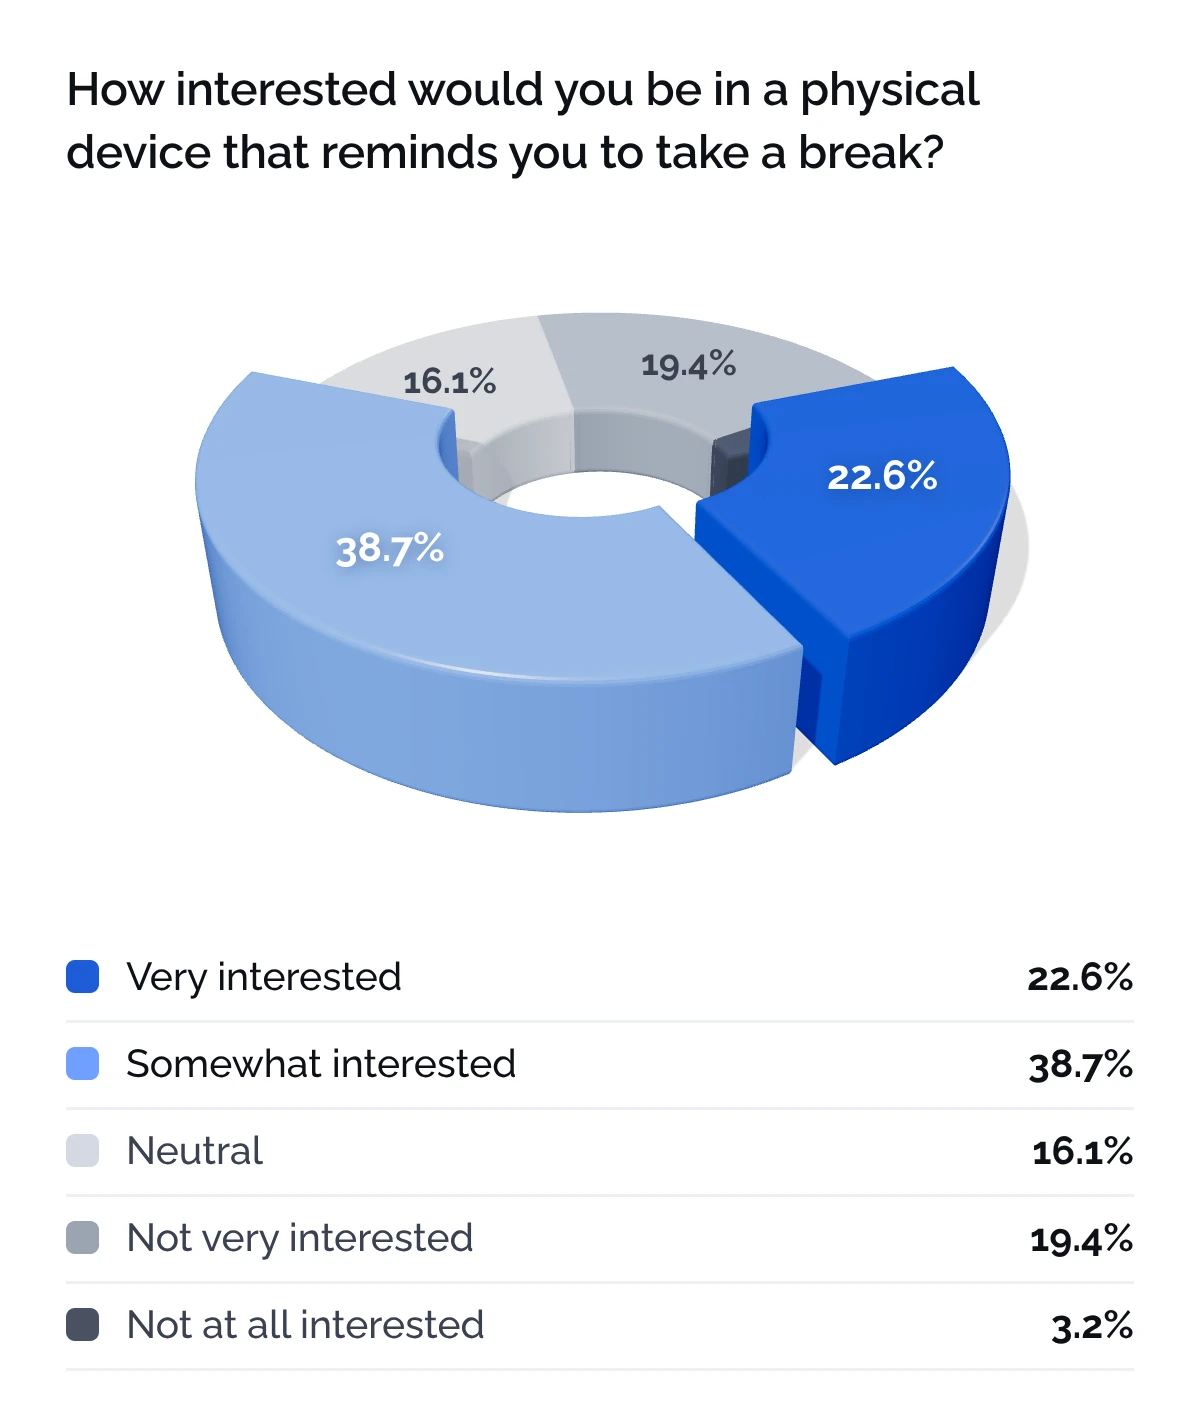
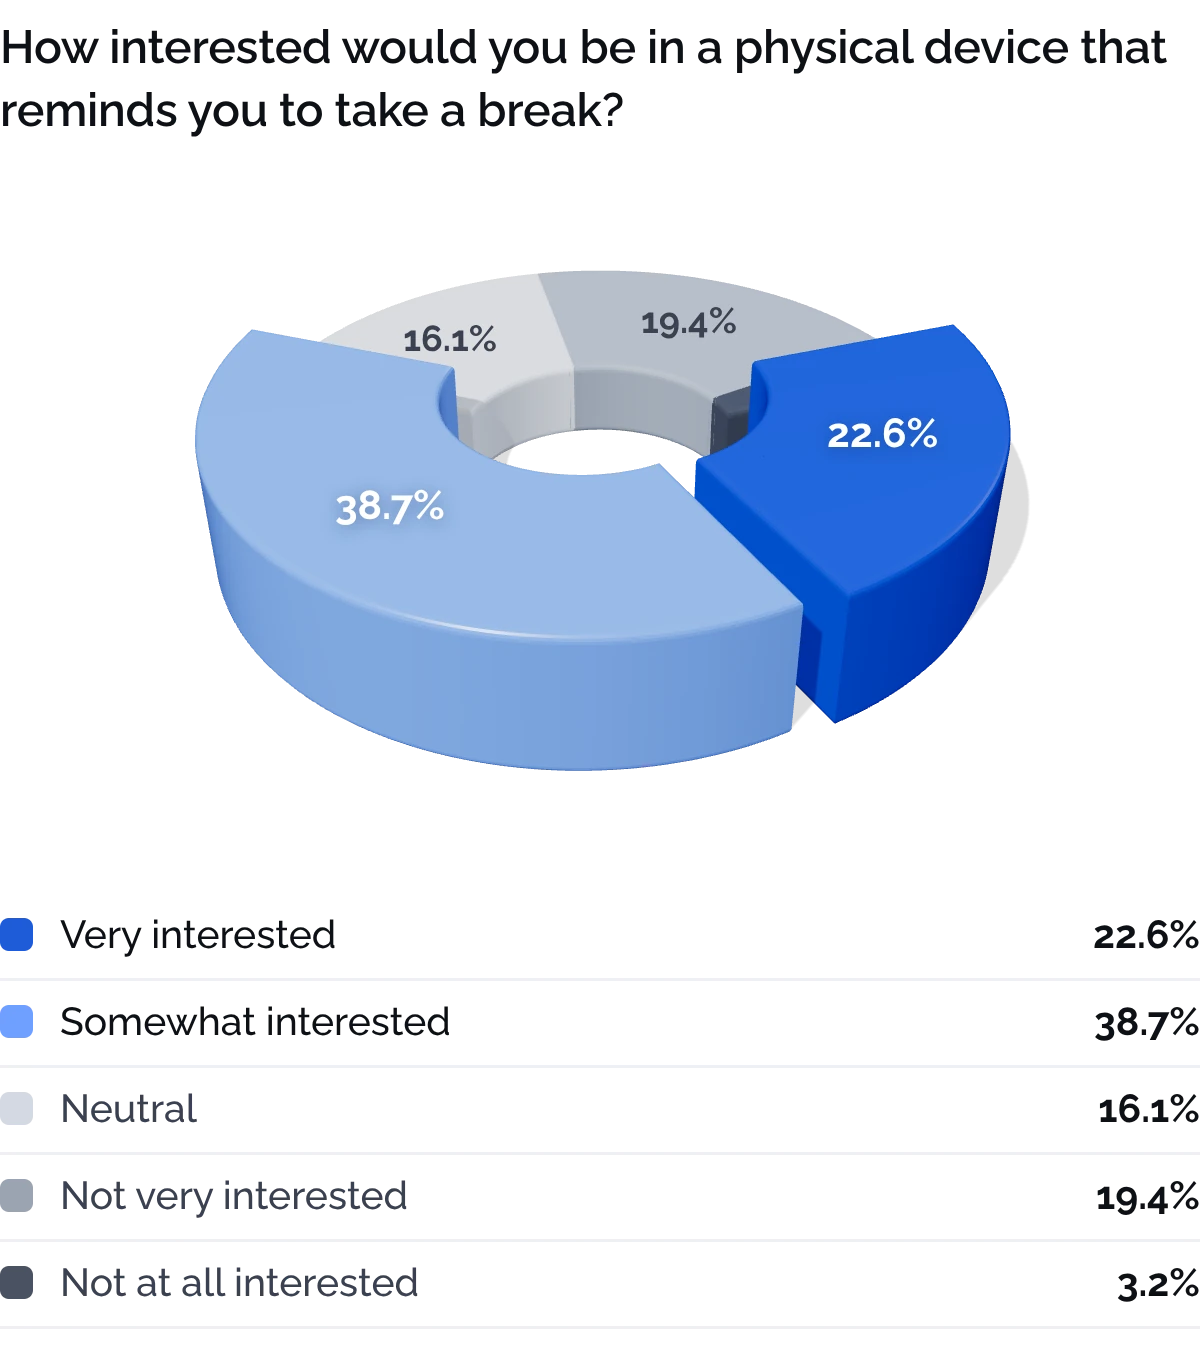
Soulshine survey: frameless transparent 3D charts, smaller stats, no top rules
Claude-Session: https://claude.ai/code/session_017Bf2Ji9pqjddmca5aaYHp1

diff --git a/index.html b/index.html
@@ -981,6 +981,8 @@ html.home-on.at-top .top::after{opacity:0}
 .stat-chart{margin-top:12px;background:#FFFFFF}
 .stat-chart img{object-fit:contain}
 .ss-lead{margin-top:clamp(40px,6vw,88px)}
+.ss-lead .stat{border-top:0;padding-top:0;gap:4px}.ss-lead .stat strong{font-size:clamp(26px,2.6vw,34px)}.ss-lead .stat span{font-size:13.5px}
+.ss-lead .stat-chart{margin-top:12px;border:0;background:transparent}
 .biglink.with-thumb{grid-column:1/-1;justify-content:flex-start;gap:clamp(16px,2.4vw,28px);padding:16px 24px 16px 16px}
 .biglink.with-thumb .arrow{margin-left:auto}
 .poster-thumb.wide{aspect-ratio:16/9}
@@ -1428,9 +1430,9 @@ html.home-on.at-top .top::after{opacity:0}
       <h2 class="sec-title" id="ss-sit-h">Scrolling is costing people their focus</h2>
       <div class="cs-copy"><p class="lede">Endless short-form scrolling hurts focus, sleep and wellbeing, and the tools that exist each solve only half the problem.</p><p>That is what 11 academic sources showed, and our own survey of 31 students and young professionals confirmed it.</p></div>
       <div class="stats">
-        <div class="stat"><p class="label">Survey</p><strong>71%</strong><span>say scrolling has hurt their ability to focus</span><button type="button" class="tx-zoom stat-chart" style="--ar:400/476" data-full="img/soulshine/survey3d-focus.webp" data-cap="Survey · Do you feel like scrolling in the past affects your ability to focus on longer tasks now? · 31 responses" aria-label="Enlarge the survey chart about scrolling and focus"><img src="img/soulshine/survey3d-focus.webp" alt="3D chart for the question: Do you feel like scrolling in the past affects your ability to focus on longer tasks now? 38.7% yes, significantly; 32.3% yes, somewhat; 25.8% not sure; the rest no" loading="lazy" width="1200" height="1428"></button></div>
-        <div class="stat"><p class="label">Survey</p><strong>74%</strong><span>have lost track of time while scrolling</span><button type="button" class="tx-zoom stat-chart" style="--ar:400/476" data-full="img/soulshine/survey3d-time.webp" data-cap="Survey · Have you ever lost track of time while scrolling? · 31 responses" aria-label="Enlarge the survey chart about losing track of time"><img src="img/soulshine/survey3d-time.webp" alt="3D chart for the question: Have you ever lost track of time while scrolling? 54.8% yes, sometimes; 19.4% yes, frequently; 22.6% rarely; the rest never" loading="lazy" width="1200" height="1428"></button></div>
-        <div class="stat"><p class="label">Survey</p><strong>61%</strong><span>want a physical device to remind them to stop</span><button type="button" class="tx-zoom stat-chart" style="--ar:400/476" data-full="img/soulshine/survey3d-device.webp" data-cap="Survey · How interested would you be in a physical device that reminds you to take a break from scrolling? · 31 responses" aria-label="Enlarge the survey chart about a physical device"><img src="img/soulshine/survey3d-device.webp" alt="3D chart for the question: How interested would you be in a physical device that reminds you to take a break from scrolling? 38.7% somewhat interested; 22.6% very interested; 16.1% neutral; 19.4% not very interested; the rest not at all interested" loading="lazy" width="1200" height="1428"></button></div>
+        <div class="stat"><p class="label">Survey</p><strong>71%</strong><span>say scrolling has hurt their ability to focus</span><button type="button" class="tx-zoom stat-chart" style="--ar:400/452" data-full="img/soulshine/survey3d-focus.webp?v=3" data-cap="Survey · Do you feel like scrolling in the past affects your ability to focus on longer tasks now? · 31 responses" aria-label="Enlarge the survey chart about scrolling and focus"><img src="img/soulshine/survey3d-focus.webp?v=3" alt="3D chart for the question: Do you feel like scrolling in the past affects your ability to focus on longer tasks now? 38.7% yes, significantly; 32.3% yes, somewhat; 25.8% not sure; the rest no" loading="lazy" width="1200" height="1356"></button></div>
+        <div class="stat"><p class="label">Survey</p><strong>74%</strong><span>have lost track of time while scrolling</span><button type="button" class="tx-zoom stat-chart" style="--ar:400/452" data-full="img/soulshine/survey3d-time.webp?v=3" data-cap="Survey · Have you ever lost track of time while scrolling? · 31 responses" aria-label="Enlarge the survey chart about losing track of time"><img src="img/soulshine/survey3d-time.webp?v=3" alt="3D chart for the question: Have you ever lost track of time while scrolling? 54.8% yes, sometimes; 19.4% yes, frequently; 22.6% rarely; the rest never" loading="lazy" width="1200" height="1356"></button></div>
+        <div class="stat"><p class="label">Survey</p><strong>61%</strong><span>want a physical device to remind them to stop</span><button type="button" class="tx-zoom stat-chart" style="--ar:400/452" data-full="img/soulshine/survey3d-device.webp?v=3" data-cap="Survey · How interested would you be in a physical device that reminds you to take a break from scrolling? · 31 responses" aria-label="Enlarge the survey chart about a physical device"><img src="img/soulshine/survey3d-device.webp?v=3" alt="3D chart for the question: How interested would you be in a physical device that reminds you to take a break from scrolling? 38.7% somewhat interested; 22.6% very interested; 16.1% neutral; 19.4% not very interested; the rest not at all interested" loading="lazy" width="1200" height="1356"></button></div>
       </div>
       <div class="highlights two">
         <div class="hl"><p class="label">What exists</p><h3>Apps or lockboxes</h3><p>Forest, One Sec, Opal and phone lockboxes work either on the screen or by locking the phone away.</p></div>
